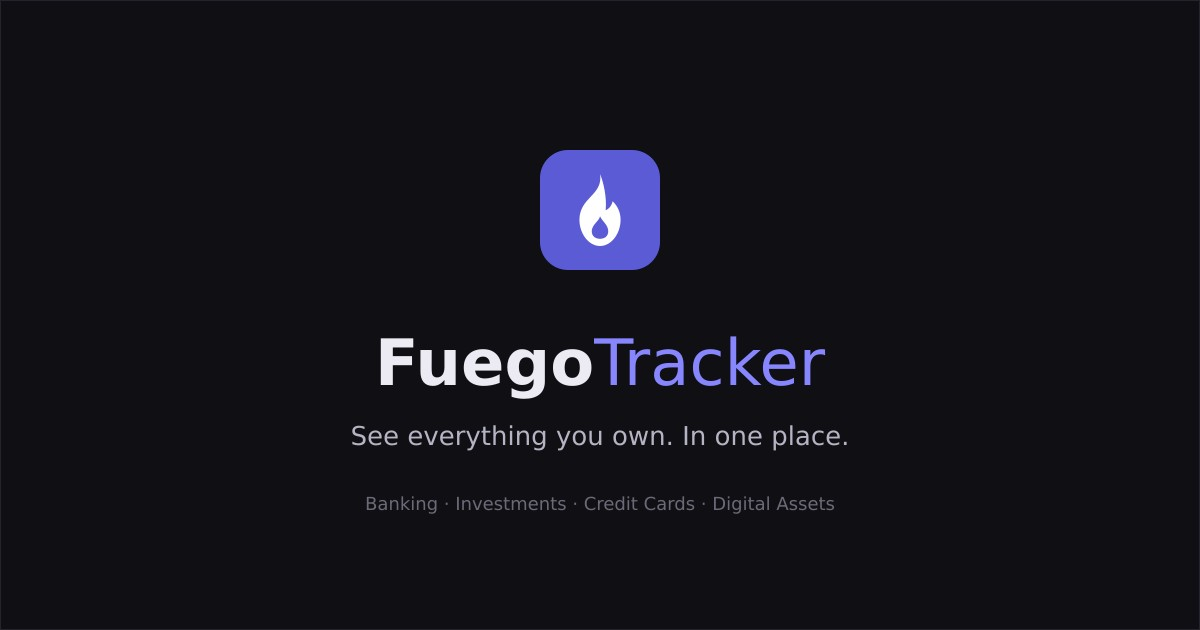
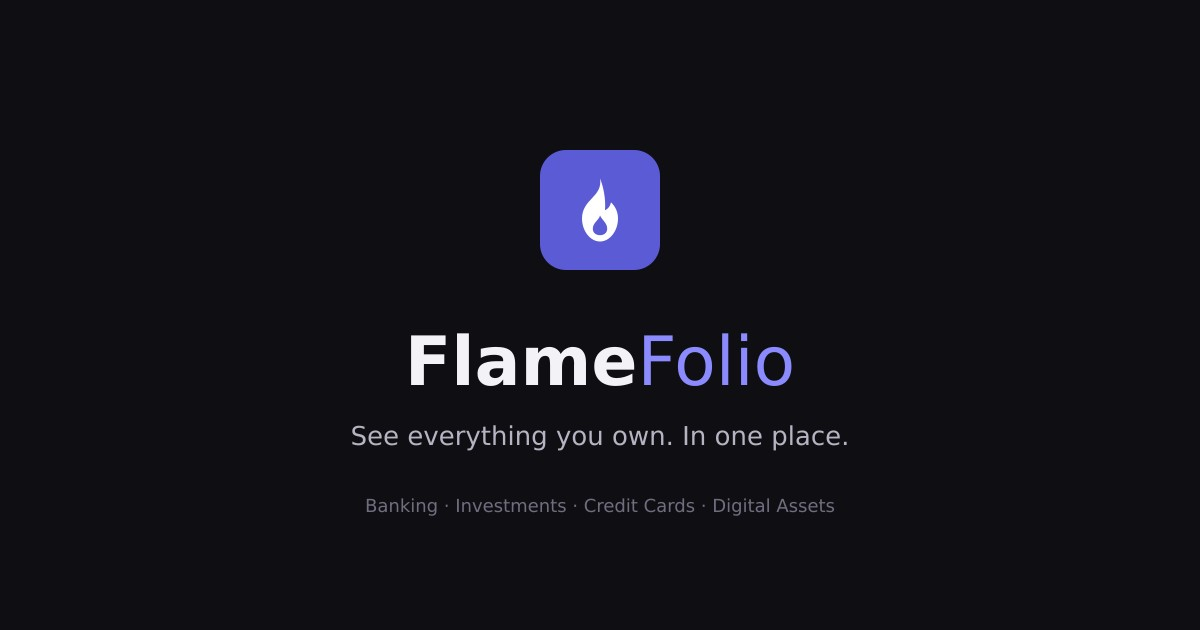
feat(brand): rename the app to FlameFolio
Display name only: APP_NAME, sidebar and landing wordmarks, privacy
page, PWA manifest, offline page, push notification title, chat
assistant prompts, and the social-share banner (now reproducible via
scripts/generate-og-banner.mjs, which reads the name and flame mark
from src/lib/brand.ts). Internal identifiers (session cookie, pw-*
storage keys, database, systemd service, repo) are unchanged.

Changed region(s): [[0.3083, 0.5127, 0.7092, 0.6333], [0.3083, 0.7841, 0.7092, 0.8143], [0.4625, 0.3016, 0.5242, 0.3921]]

diff --git a/src/app/privacy/page.tsx b/src/app/privacy/page.tsx
@@ -12,7 +12,7 @@ const GOOGLE_USER_DATA_POLICY_URL =
 
 const SECTIONS: LegalSection[] = [
   {
-    heading: "What FuegoTracker is",
+    heading: "What FlameFolio is",
     body: [
       `${APP_NAME} is a privately operated personal finance tracker. It is not a commercial service; accounts exist only for the people who run and use this instance.`,
     ],
@@ -20,15 +20,15 @@ const SECTIONS: LegalSection[] = [
   {
     heading: "Gmail data we access",
     body: [
-      "When you choose to connect a Google account, FuegoTracker requests read-only access to Gmail (the gmail.readonly scope) and your basic account identity. It cannot send, delete, or modify email.",
-      "FuegoTracker searches for specific kinds of messages: sign-up and account notification emails (to build a directory of which email address you used for each service) and travel confirmations such as flight, hotel, and car bookings (to import trips).",
+      "When you choose to connect a Google account, FlameFolio requests read-only access to Gmail (the gmail.readonly scope) and your basic account identity. It cannot send, delete, or modify email.",
+      "FlameFolio searches for specific kinds of messages: sign-up and account notification emails (to build a directory of which email address you used for each service) and travel confirmations such as flight, hotel, and car bookings (to import trips).",
     ],
   },
   {
     heading: "How that data is used",
     body: [
-      "Matching messages are read to extract account and trip details, which are saved to your FuegoTracker account. Full email bodies are not stored; for the account directory, the subject, sender, and a short snippet are kept (encrypted) as evidence of where each entry came from.",
-      "If you have configured an AI provider in FuegoTracker (Anthropic Claude, OpenAI, or Google Gemini), the subject and text of matching messages are sent to that provider solely to extract those details. Trip import requires an AI provider; the account directory falls back to a local rule-based parser without one.",
+      "Matching messages are read to extract account and trip details, which are saved to your FlameFolio account. Full email bodies are not stored; for the account directory, the subject, sender, and a short snippet are kept (encrypted) as evidence of where each entry came from.",
+      "If you have configured an AI provider in FlameFolio (Anthropic Claude, OpenAI, or Google Gemini), the subject and text of matching messages are sent to that provider solely to extract those details. Trip import requires an AI provider; the account directory falls back to a local rule-based parser without one.",
       "Gmail data is never sold, never used for advertising, and never shared with anyone other than the AI provider you configure for the purpose above.",
     ],
   },

diff --git a/src/lib/chat/system-prompt.ts b/src/lib/chat/system-prompt.ts
@@ -3,7 +3,7 @@
  * financial questions using the available tools.
  */
 
-export const SYSTEM_PROMPT = `You are PocketLLM, an AI financial assistant embedded in FuegoTracker — a personal finance dashboard.
+export const SYSTEM_PROMPT = `You are PocketLLM, an AI financial assistant embedded in FlameFolio — a personal finance dashboard.
 
 You have access to tools that query the user's real financial data. Always use tools to answer data questions rather than guessing.
 
@@ -95,7 +95,7 @@ get_staking_positions / get_wallet_pnl -> get_portfolio_history for the trend.
 ### Deleting trips, routes, and budgets (UI ONLY)
 - You CANNOT delete trips, saved routes, or budgets — there is no delete tool.
 - When the user asks to delete a trip, saved route, or budget, tell them to do it
-  in the FuegoTracker UI (the Trips, Routes, or Budgets page), which shows a
+  in the FlameFolio UI (the Trips, Routes, or Budgets page), which shows a
   confirmation dialog before anything is permanently removed.
 - You can help them find the right item first (e.g. list_trips, list_saved_routes,
   get_budget_status), but never claim you deleted something.

diff --git a/src/lib/chat/agent-loop.ts b/src/lib/chat/agent-loop.ts
@@ -453,7 +453,7 @@ Rules:
 - When calling a tool, output ONLY the JSON. Do not write any text before or after it.
 - After receiving tool results, answer naturally using that data in clean markdown. No JSON in your final answer.
 - Be concise. Use bullet points, tables, and bold for readability.
-- This JSON format is ONLY for the FuegoTracker data tools below. For current EXTERNAL facts (card fees, rates, prices, how-to, news) use your built-in web search directly — do NOT wrap web search in this JSON format, and never claim you can't search the web.
+- This JSON format is ONLY for the FlameFolio data tools below. For current EXTERNAL facts (card fees, rates, prices, how-to, news) use your built-in web search directly — do NOT wrap web search in this JSON format, and never claim you can't search the web.
 
 Available tools:
 ${toolDescriptions}`

diff --git a/src/components/layout/sidebar.tsx b/src/components/layout/sidebar.tsx
@@ -104,7 +104,7 @@ export const Sidebar = memo(function Sidebar({ isOpen = true, onClose, collapsed
               </svg>
             </div>
             <span className="text-sm font-semibold tracking-tight text-foreground">
-              Fuego<span className="text-foreground-muted font-normal">Tracker</span>
+              Flame<span className="text-foreground-muted font-normal">Folio</span>
             </span>
           </div>
           <div className={cn("flex items-center gap-1", collapsed && "lg:hidden")}>

diff --git a/src/components/landing-page.tsx b/src/components/landing-page.tsx
@@ -143,7 +143,7 @@ export function LandingPage() {
             <path fillRule="evenodd" d={LOGO_PATH} />
           </svg>
           <span className="text-2xl font-semibold tracking-wide text-foreground">
-            Fuego<span className="font-normal">Tracker</span>
+            Flame<span className="font-normal">Folio</span>
           </span>
         </div>
 

diff --git a/public/sw.js b/public/sw.js
@@ -234,7 +234,7 @@ self.addEventListener("push", (event) => {
       actions: payload.actions || [],
     };
     event.waitUntil(
-      self.registration.showNotification(payload.title || "FuegoTracker", options)
+      self.registration.showNotification(payload.title || "FlameFolio", options)
     );
   } catch {
     // Ignore malformed push payloads

diff --git a/src/lib/brand.ts b/src/lib/brand.ts
@@ -1,5 +1,5 @@
 /** Display name of the app. Internal identifiers (cookies, cache keys) keep the legacy "pocketwatch" prefix. */
-export const APP_NAME = "FuegoTracker"
+export const APP_NAME = "FlameFolio"
 
 /** Flame mark on a 16x16 viewBox. Render with fill-rule "evenodd" so the inner flame is cut out. */
 export const LOGO_PATH =

diff --git a/src/lib/db.ts b/src/lib/db.ts
@@ -12,7 +12,7 @@ import {
 const databaseUrl = process.env.DATABASE_URL
 if (!databaseUrl) {
   throw new Error(
-    "DATABASE_URL is not configured. Set DATABASE_URL before starting FuegoTracker."
+    "DATABASE_URL is not configured. Set DATABASE_URL before starting FlameFolio."
   )
 }
 

diff --git a/public/offline.html b/public/offline.html
@@ -3,7 +3,7 @@
 <head>
   <meta charset="UTF-8">
   <meta name="viewport" content="width=device-width, initial-scale=1.0">
-  <title>FuegoTracker — Offline</title>
+  <title>FlameFolio — Offline</title>
   <style>
     * { margin: 0; padding: 0; box-sizing: border-box; }
     body {
